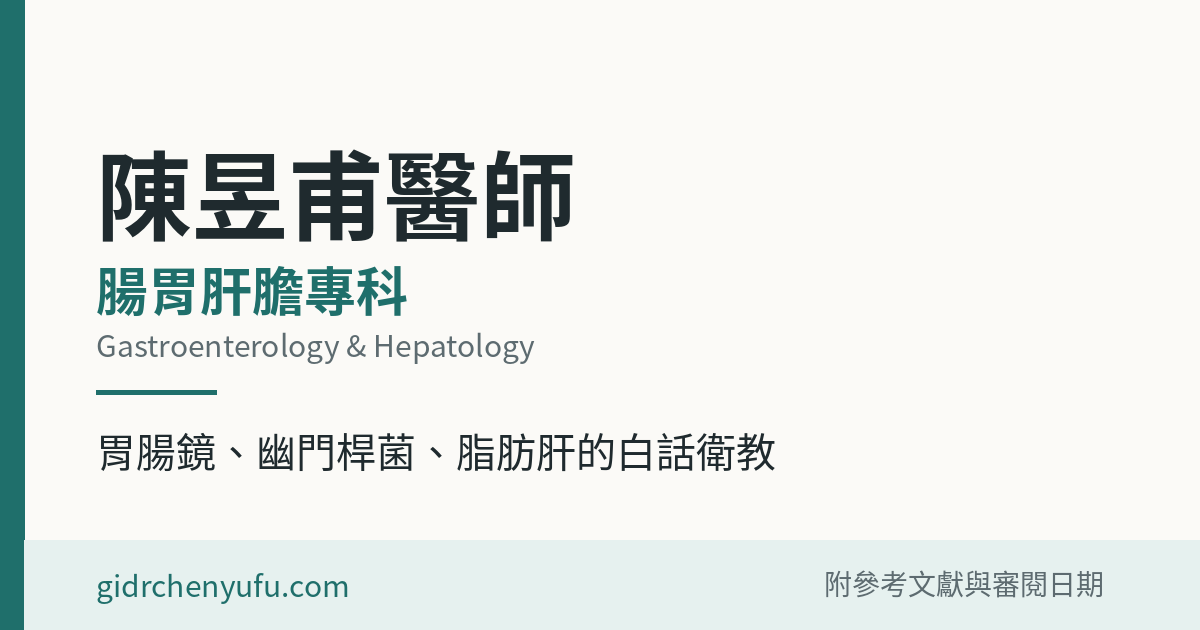
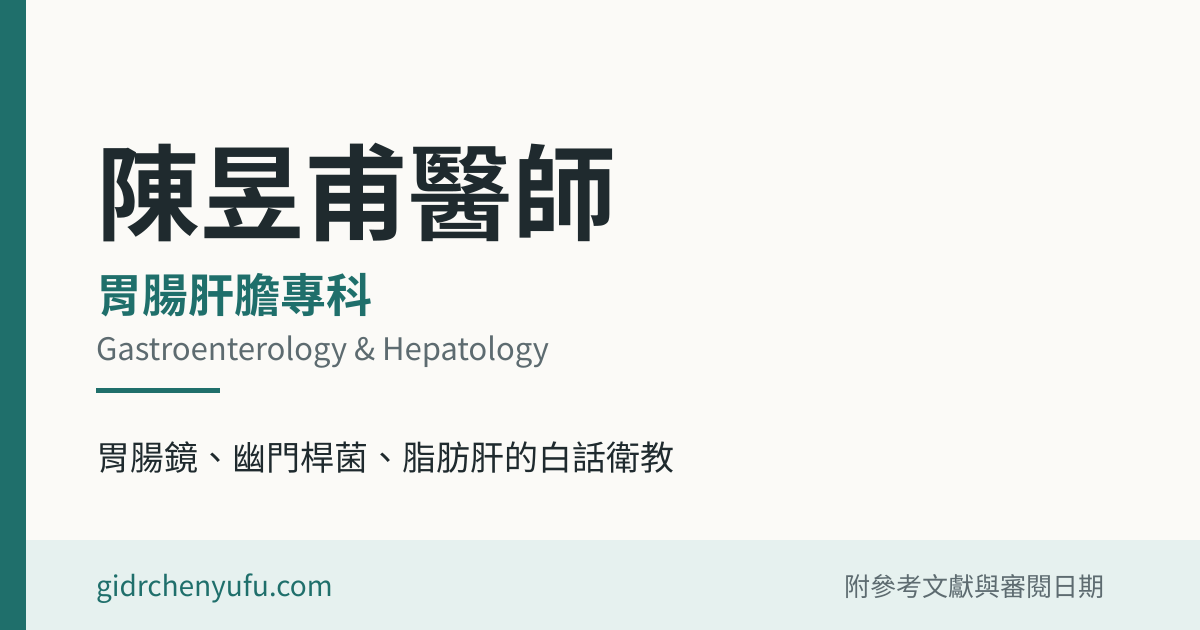
Rename specialty 腸胃肝膽 to 胃腸肝膽 site-wide
- 9 處文字改為「胃腸肝膽」：站名、描述、品牌列、首頁標題、關於頁、
  文章總覽描述、JSON-LD 的 jobTitle 與 hasOccupation、README
  （站內原本已有兩處寫「胃腸肝膽科」，現在全站一致）
- 文章內的「腸胃道」「腸胃科」「腸胃症狀」等一般用語未更動
- public/og.png 內的文字一併更新；新增 scripts/make-og.mjs，
  讓這張圖之後可重新產生（原本是無法重製的二進位檔）

diff --git a/src/data/site.ts b/src/data/site.ts
@@ -6,10 +6,10 @@ export const site = {
   doctorNameZh: "陳昱甫",
   doctorNameEn: "Yu-Fu Chen, MD",
   // 網站名稱（方向一：人名 + 專科定位）
-  name: "陳昱甫醫師｜腸胃肝膽專科",
+  name: "陳昱甫醫師｜胃腸肝膽專科",
   tagline: "胃腸鏡、幽門桿菌、脂肪肝的白話衛教",
   description:
-    "腸胃肝膽專科醫師撰寫的衛教文章：胃食道逆流、幽門桿菌、脂肪肝、胃鏡與大腸鏡，內容附參考文獻與審閱日期。",
+    "胃腸肝膽專科醫師撰寫的衛教文章：胃食道逆流、幽門桿菌、脂肪肝、胃鏡與大腸鏡，內容附參考文獻與審閱日期。",
   email: "contact@gidrchenyufu.com",
   locale: "zh-TW",
   // 專科資格與學會

diff --git a/src/lib/schema.ts b/src/lib/schema.ts
@@ -14,11 +14,11 @@ export const physicianLd = {
   "@id": physicianId,
   name: `${site.doctorNameZh}醫師`,
   alternateName: site.doctorNameEn,
-  jobTitle: "腸胃肝膽專科醫師",
+  jobTitle: "胃腸肝膽專科醫師",
   url: `${site.url}/about/`,
   hasOccupation: {
     "@type": "Occupation",
-    name: "腸胃肝膽專科醫師",
+    name: "胃腸肝膽專科醫師",
     occupationLocation: { "@type": "City", name: "桃園市" },
   },
   knowsAbout: [

diff --git a/README.md b/README.md
@@ -1,6 +1,6 @@
 # gidrchenyufu.com
 
-腸胃肝膽專科醫師個人衛教網站，使用 [Astro](https://astro.build) 建置的靜態網站，部署於 Cloudflare。
+胃腸肝膽專科醫師個人衛教網站，使用 [Astro](https://astro.build) 建置的靜態網站，部署於 Cloudflare。
 
 ## 常用修改
 
@@ -11,6 +11,7 @@
 | 新增文章 | 在 `src/content/articles/` 新增一個 `.md` 檔 |
 | 線上預約連結與 QR | `src/data/site.ts` 的 `clinics[].booking`（見下） |
 | 顏色、字體 | `src/styles/global.css` |
+| 社群分享預覽圖的文字 | 改 `scripts/make-og.mjs` 再跑 `node scripts/make-og.mjs` |
 
 ## 新增文章
 
